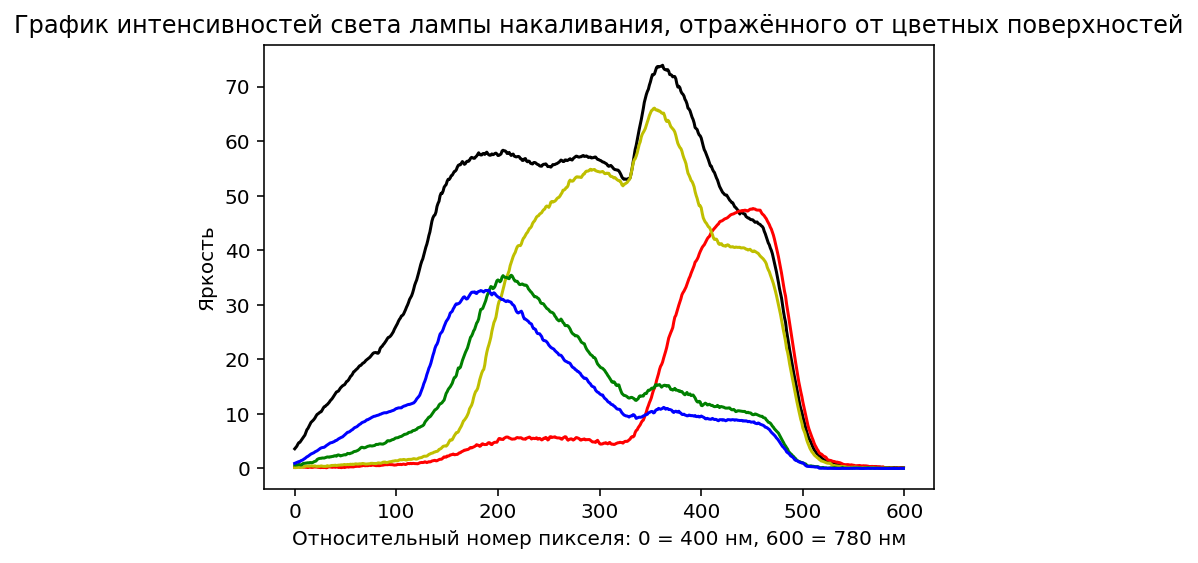
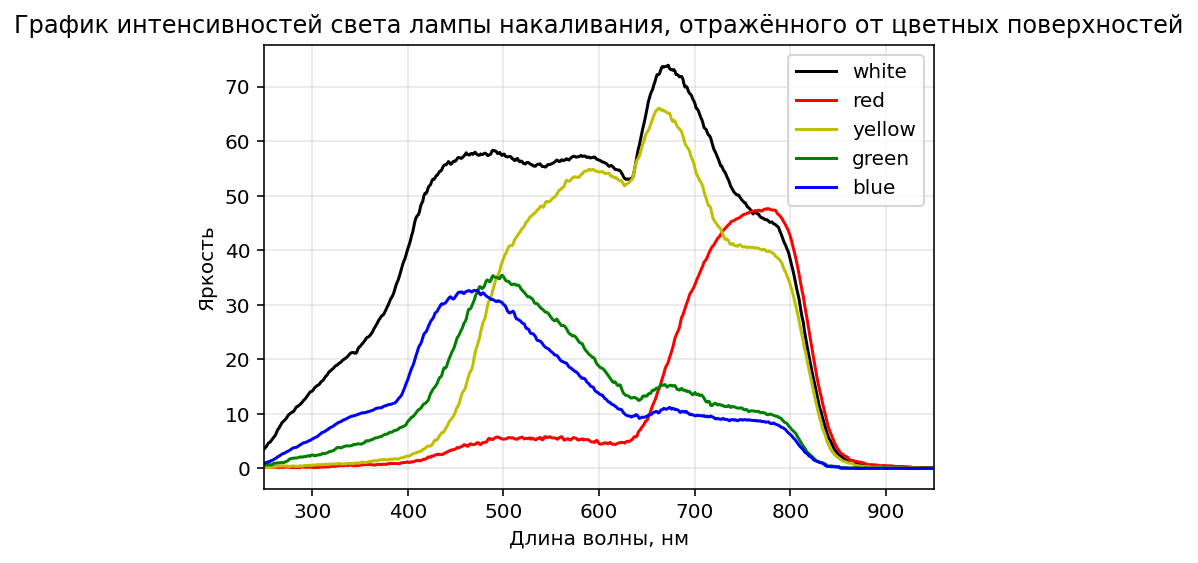
finished my part, maybe need minor improvements

diff --git a/light/albedo.py b/light/albedo.py
@@ -7,6 +7,7 @@ Created on Mon Nov 24 16:28:07 2025
 
 import lightFunctions as j
 import matplotlib.pyplot as plt
+import numpy as np
 
 data = j.readIntensity("Kayf\Hg_white.jpeg", "Kayf\plot_white.jpeg", "mercury", "white")
 data_white = j.readIntensity("Kayf\Fil_white.jpeg", "Kayf\plot_filwhite.jpeg", "filament", "white")
@@ -15,24 +16,39 @@ data_yellow = j.readIntensity("Kayf\Fil_yellow.jpeg", "Kayf\plot_yellow.jpeg", "
 data_green = j.readIntensity("Kayf\Fil_green.jpeg", "Kayf\plot_green.jpeg", "filament", "green")
 data_blue = j.readIntensity("Kayf\Fil_blue.jpeg", "Kayf\plot_blue.jpeg", "filament", "blue")
 
+pixels = np.arange(len(data_white))  # массив пикселей [0, 1, 2, ..., N-1]
+wavelengths = 250 + (950 - 250) * pixels / 600  # линейное преобразование
 
+
+
+alb_white = [0]*len(data)
 alb_red = [0]*len(data)
 alb_yellow = [0]*len(data)
 alb_green = [0]*len(data)
 alb_blue = [0]*len(data)
 
 for i in range (len(data)):
+    alb_white[i] = data_white[i]/data_white[i]
     alb_red[i] = data_red[i]/data_white[i]
     alb_yellow[i] = data_yellow[i]/data_white[i]
     alb_green[i] = data_green[i]/data_white[i]
     alb_blue[i] = data_blue[i]/data_white[i]
 
 plt.figure()
-#plt.xlim(400, 1000)
-#plt.plot(alb_white, 'k')
-plt.plot(alb_red, 'r')
-plt.plot(alb_yellow, 'y')
-plt.plot(alb_green, 'g')
-plt.plot(alb_blue, 'b')
+plt.xlim (300, 900)
+plt.ylim (0,1.3)
 
+plt.title("График альбедо цветных поверхностей")
+plt.xlabel("Длина волны, нм")
+plt.ylabel("Альбедо")
+
+plt.plot(wavelengths, alb_white, 'k', label = "white")
+plt.plot(wavelengths, alb_red, 'r', label = "red")
+plt.plot(wavelengths, alb_yellow, 'y', label = "yellow")
+plt.plot(wavelengths, alb_green, 'g', label = "green")
+plt.plot(wavelengths, alb_blue, 'b', label = "blue")
+
+
+plt.legend(loc='upper left')
+plt.grid(True, alpha=0.3)
 plt.show()

diff --git a/light/spectre.py b/light/spectre.py
@@ -7,6 +7,7 @@ Created on Mon Nov 24 16:35:09 2025
 
 import lightFunctions as j
 import matplotlib.pyplot as plt
+import numpy as np
 
 data = j.readIntensity("Kayf\Hg_white.jpeg", "Kayf\plot_white.jpeg", "mercury", "white")
 data_white = j.readIntensity("Kayf\Fil_white.jpeg", "Kayf\plot_filwhite.jpeg", "filament", "white")
@@ -16,17 +17,22 @@ data_green = j.readIntensity("Kayf\Fil_green.jpeg", "Kayf\plot_green.jpeg", "fil
 data_blue = j.readIntensity("Kayf\Fil_blue.jpeg", "Kayf\plot_blue.jpeg", "filament", "blue")
 
 
+pixels = np.arange(len(data_white))  # массив пикселей [0, 1, 2, ..., N-1]
+wavelengths = 250 + (950 - 250) * pixels / 600  # линейное преобразование
 
 plt.figure()
 plt.title("График интенсивностей света лампы накаливания, отражённого от цветных поверхностей")
-plt.xlabel("Относительный номер пикселя: 0 = 400 нм, 600 = 780 нм")
-plt.ylabel ("Яркость")
+plt.xlabel("Длина волны, нм")
+plt.ylabel("Яркость")
 
-#plt.xlim(400, 1000)
-plt.plot(data_white, 'k')
-plt.plot(data_red, 'r')
-plt.plot(data_yellow, 'y')
-plt.plot(data_green, 'g')
-plt.plot(data_blue, 'b')
+# Используем wavelengths вместо pixels
+plt.plot(wavelengths, data_white, 'k', label='white')
+plt.plot(wavelengths, data_red, 'r', label='red')
+plt.plot(wavelengths, data_yellow, 'y', label='yellow')
+plt.plot(wavelengths, data_green, 'g', label='green')
+plt.plot(wavelengths, data_blue, 'b', label='blue')
 
+plt.xlim(250, 950)  # ограничиваем по длинам волн
+plt.legend()
+plt.grid(True, alpha=0.3)
 plt.show()
